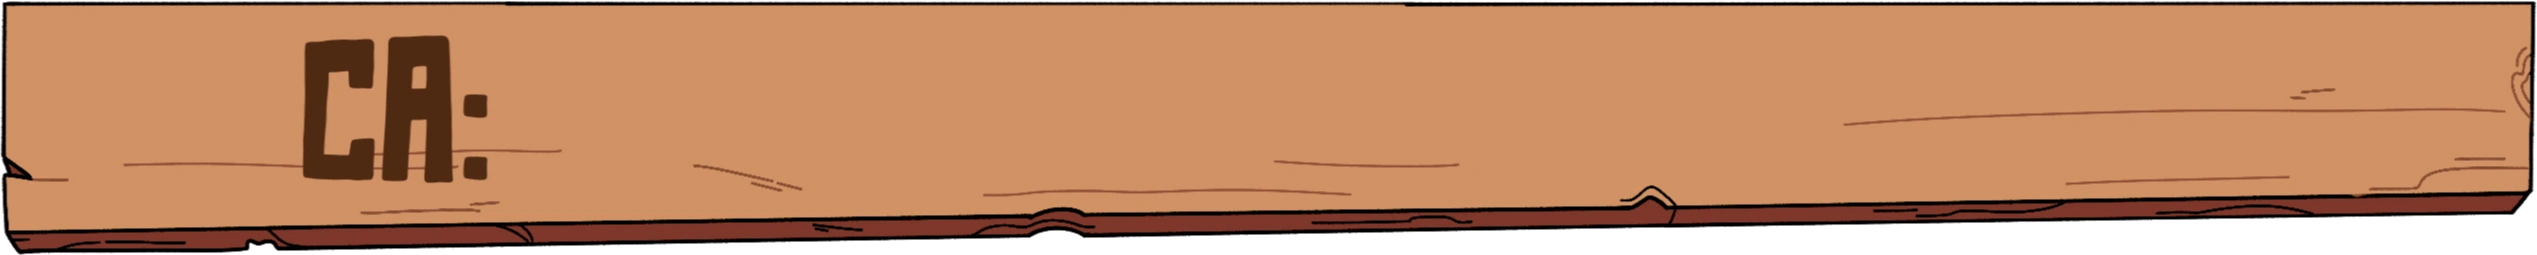
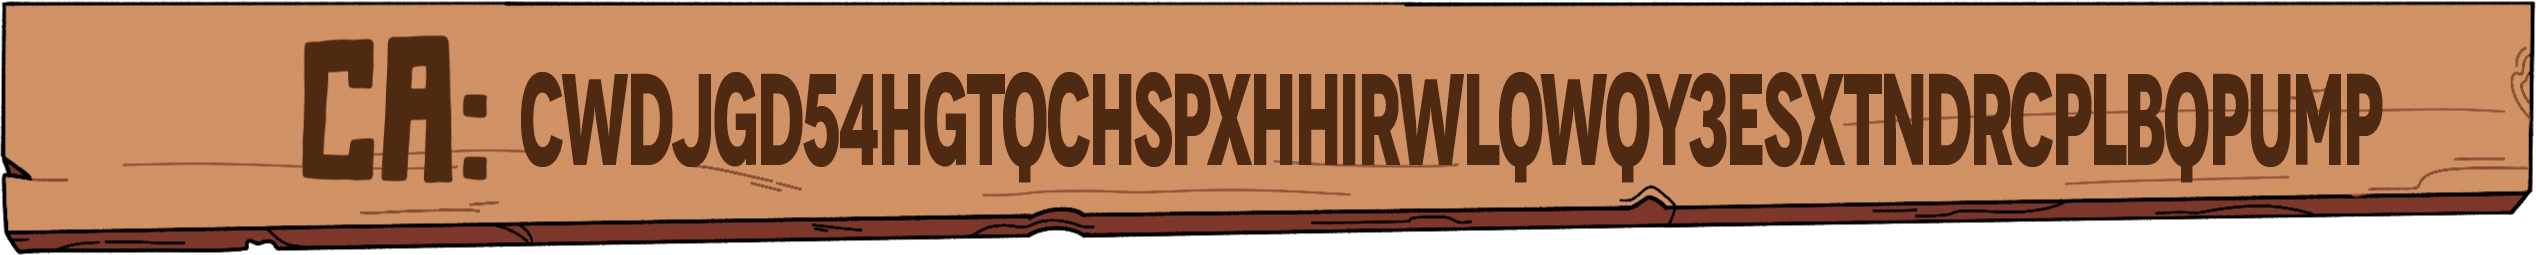
update links

Changed region(s): [[0.1869, 0.2745, 0.9657, 0.7137], [0.9968, 0.0, 1.0, 0.7686]]

diff --git a/src/app/page.tsx b/src/app/page.tsx
@@ -73,7 +73,11 @@ export default function Home() {
               className="absolute z-3 h-auto w-[19%] bottom-[39%] left-[6.2%] opacity-0 group-hover:opacity-100 "
             />
           </a>
-          <a href="https://pump.fun/coin/CwdjgD54hgTQChspxHhirWLQWqy3EsxtndrcpLBqpump" target="_blank" className="group">
+          <a
+            href="https://dexscreener.com/solana/CwdjgD54hgTQChspxHhirWLQWqy3EsxtndrcpLBqpump"
+            target="_blank"
+            className="group"
+          >
             <img
               src="/images/dex.webp"
               alt="Dexscreener"
@@ -87,7 +91,7 @@ export default function Home() {
               className="absolute z-3 h-auto w-[15.3%] bottom-[44.25%] left-[27.5%] opacity-0 group-hover:opacity-100 "
             />
           </a>
-          <a href="https://t.me/" target="_blank" className="group">
+          <a href="https://t.me/gobithecoin" target="_blank" className="group">
             <img
               src="/images/tg.webp"
               alt="Telegram"
@@ -102,7 +106,7 @@ export default function Home() {
             />
           </a>
         </div>
-        <div className="relative h-full w-full z-2 flex flex-col justify-center -mt-12 md:-mt-0">
+        <div className="relative h-full w-full z-2 flex flex-col justify-center -mt-8 md:-mt-0">
           <img
             src="/images/forest-bottom.webp"
             alt=""
@@ -110,7 +114,7 @@ export default function Home() {
             className="absolute w-full h-auto z-2"
           />
 
-          <div className="w-full relative z-3 px-12 flex md:flex-row flex-col justify-center md:gap-12 items-center">
+          <div className="w-full relative z-3 px-12 flex md:flex-row flex-col justify-center md:gap-12 items-center -mt-12 md:-mt-0">
             <img
               src="/images/gobi-portal.webp"
               className="w-[50%] md:w-1/2 h-auto hidden md:block "
@@ -126,12 +130,22 @@ export default function Home() {
               draggable={false}
             />
           </div>
-          <a href="https://solscan.io/token/xxx" target="_blank">
+          <a
+            href="https://solscan.io/token/CwdjgD54hgTQChspxHhirWLQWqy3EsxtndrcpLBqpump"
+            target="_blank"
+            className="group"
+          >
             <img
               src="/images/board.webp"
               alt="Board"
               draggable={false}
-              className="w-full h-auto relative z-3 px-12 md:px-24 mt-12 md:mt-24 "
+              className="w-full h-auto absolute z-3 px-12 md:px-24 mt-12 md:mt-24 opacity-100 group-hover:opacity-0"
+            />
+            <img
+              src="/images/board-hover.webp"
+              alt="Board"
+              draggable={false}
+              className="w-full h-auto absolute z-3 px-12 md:px-24 mt-12 md:mt-24 opacity-0 group-hover:opacity-100"
             />
           </a>
         </div>
